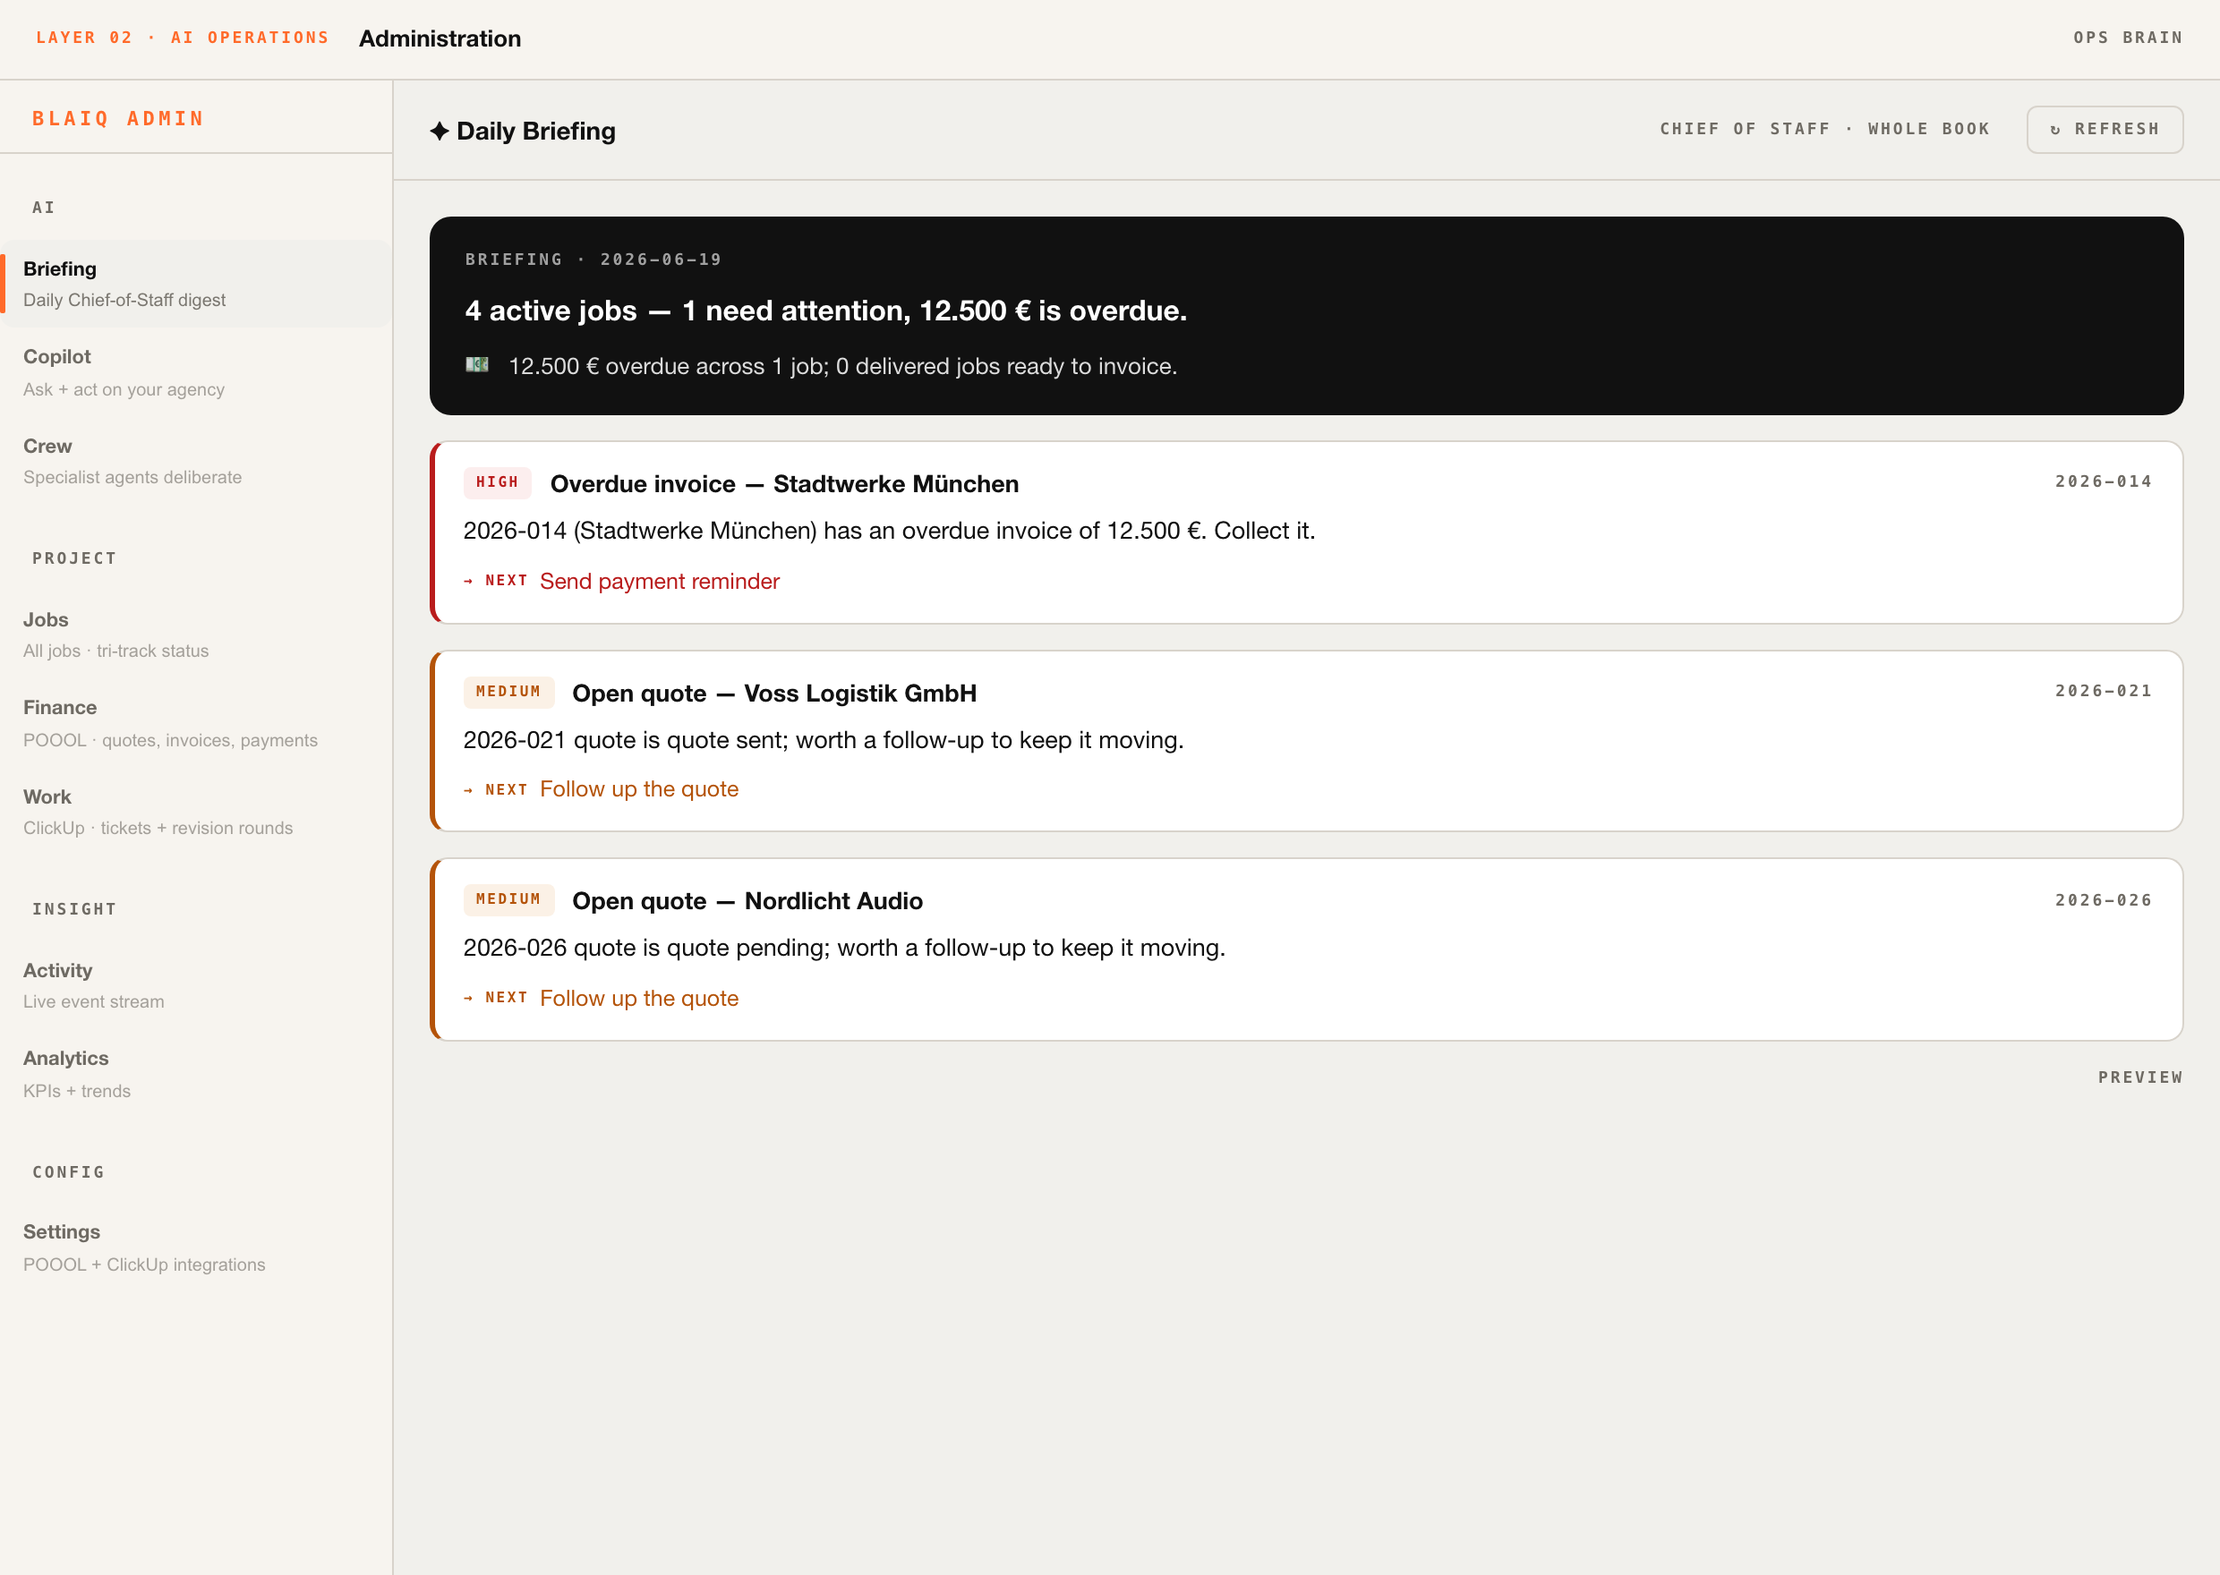
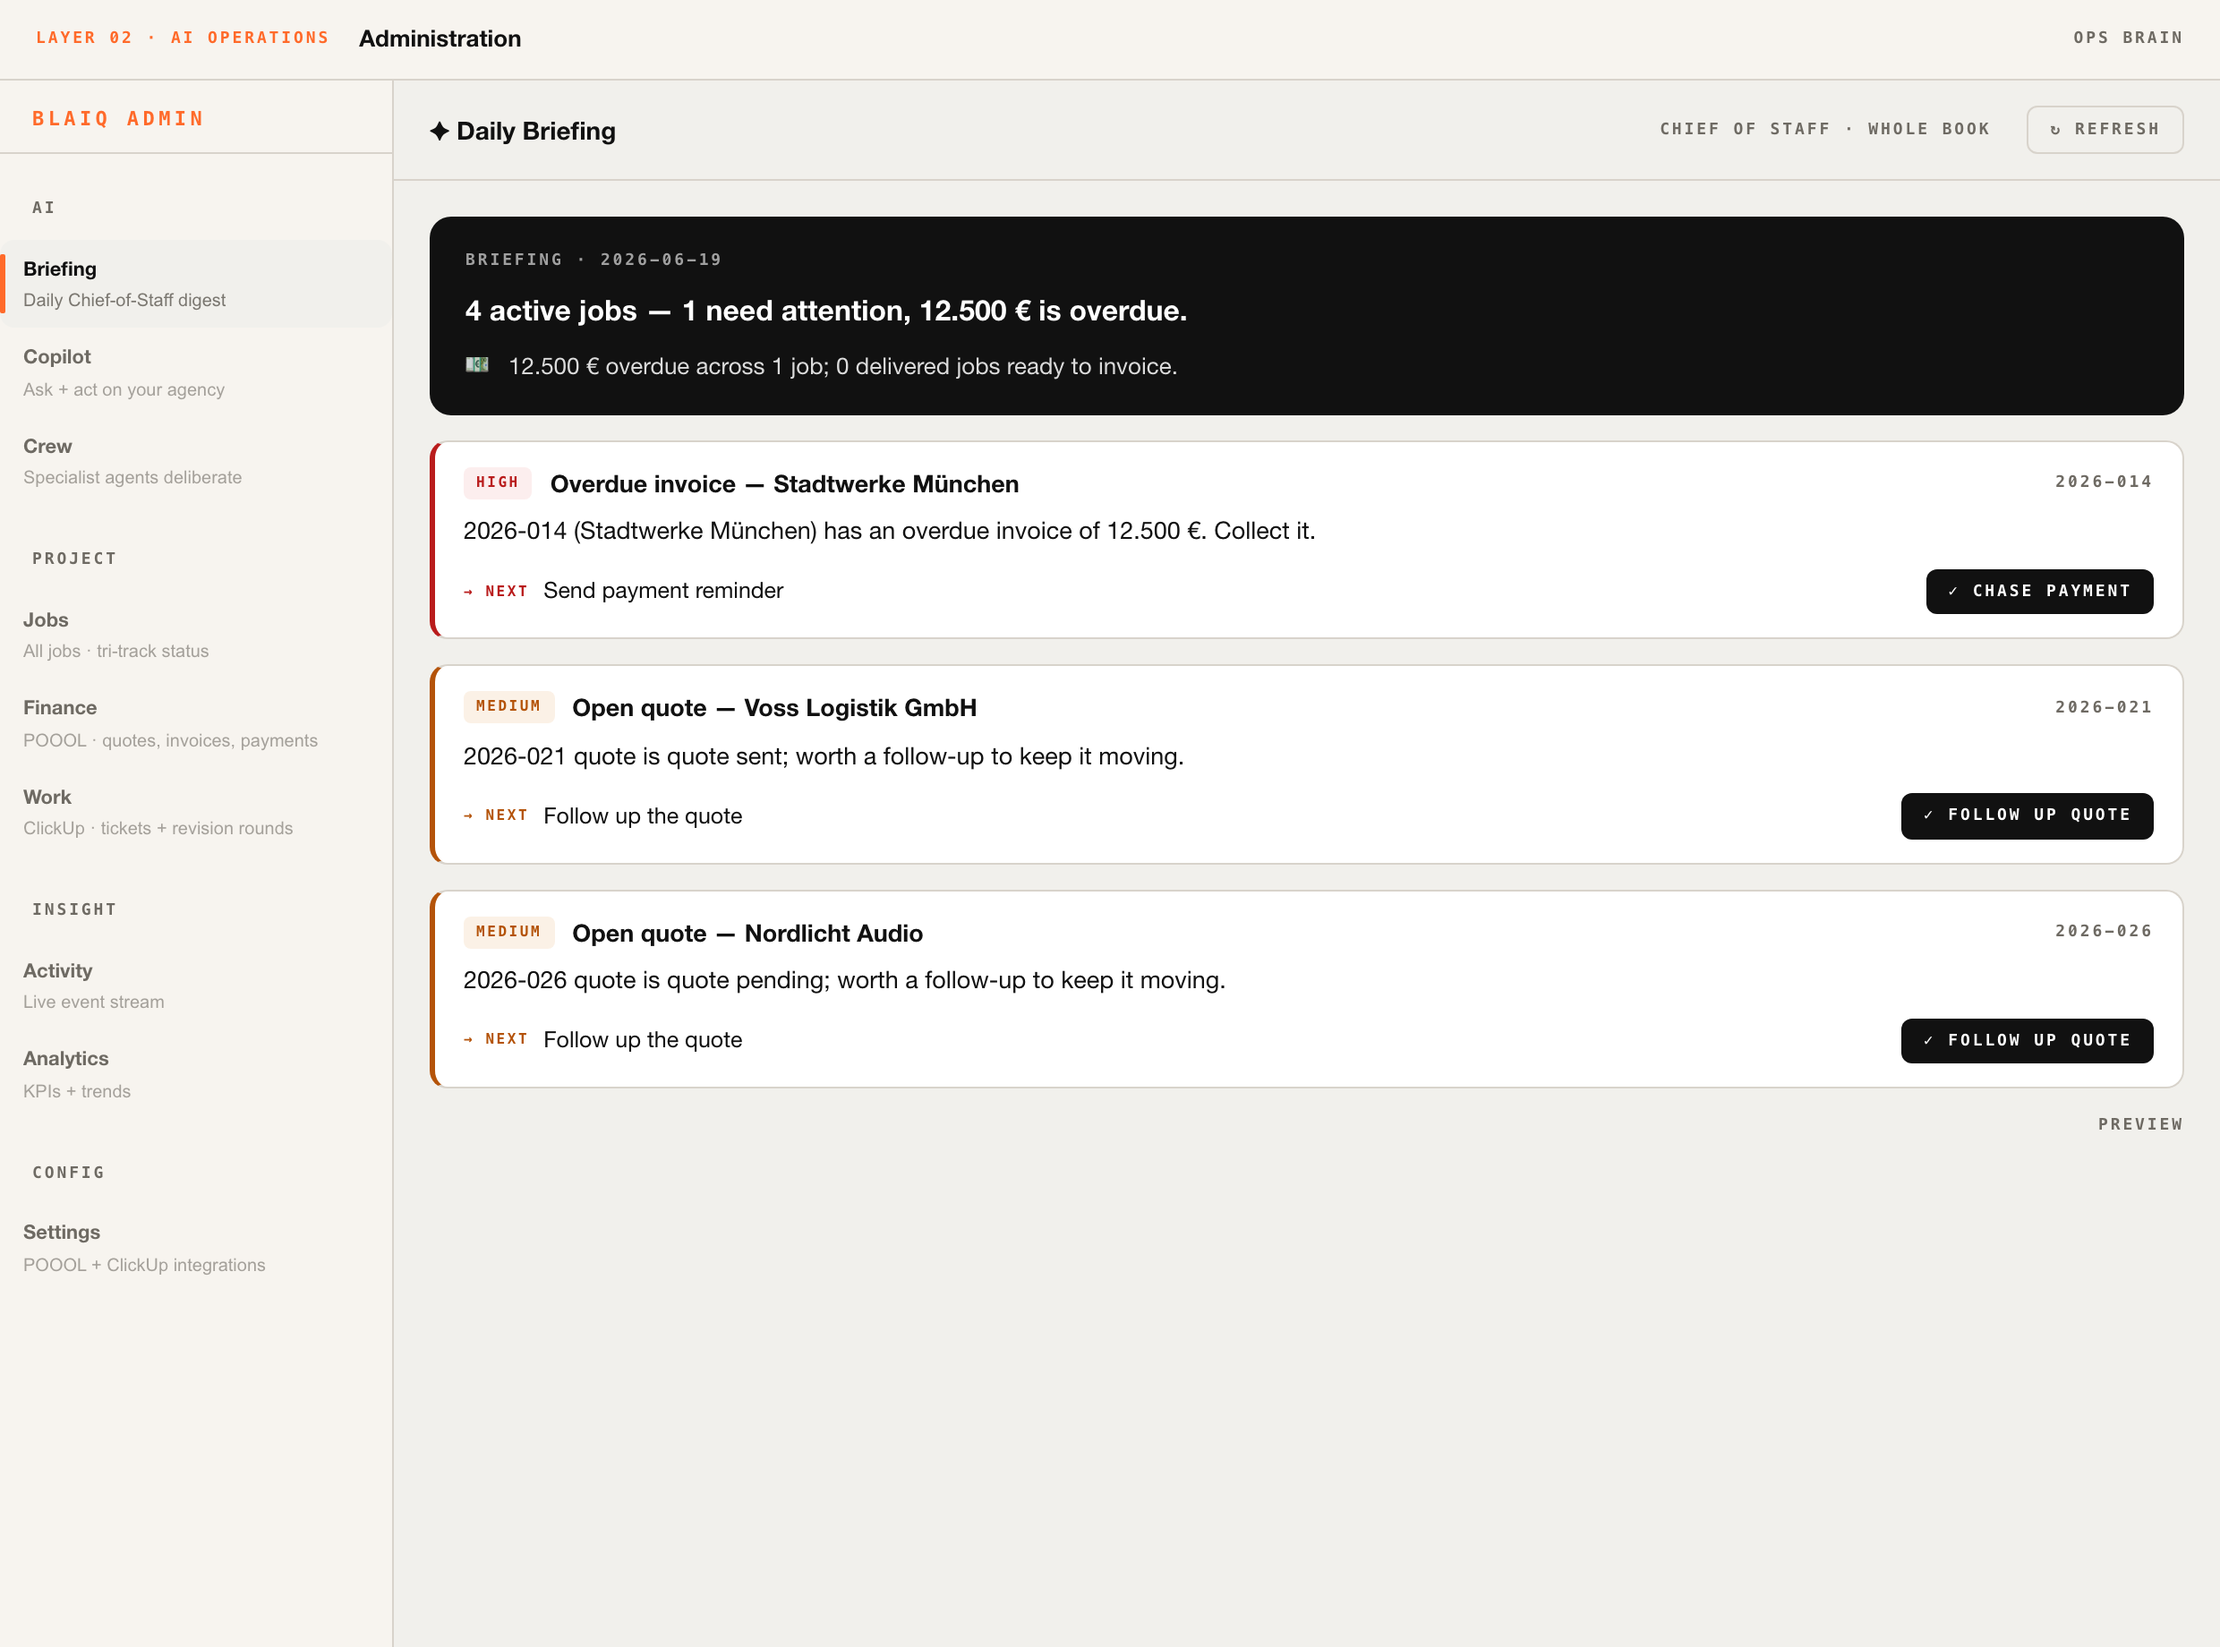
feat(admin): actionable Briefing — one-click approve from the standup
Closes the loop on AA4: each briefing insight whose job maps to a rule-based
Supervisor action now carries a runnable job_id + act_kind, so the PM can fire
it straight from the standup (chase payment, invoice, follow up quote) without
detouring to another tab. The LLM picks the narrative; the rule engine supplies
the safe, executable action — matched by job_number server-side.

Frontend: BriefingBoard renders a one-click action button per runnable insight
with running/done states (executeNextAction).

Verified live on prod: 2 of 4 insights one-click runnable (both overdue jobs
→ chase_payment); info-only insights correctly have no button.

diff --git a/apps/web/src/auth/admin/BriefingBoard.tsx b/apps/web/src/auth/admin/BriefingBoard.tsx
@@ -7,7 +7,7 @@
 'use client';
 
 import React, { useEffect, useState } from 'react';
-import { getBriefing, type Briefing } from './api';
+import { getBriefing, executeNextAction, type Briefing } from './api';
 import { PAL, monoSmall, sansBold, sans } from './theme';
 
 interface Sev { bg: string; fg: string; label: string }
@@ -22,10 +22,13 @@ export default function BriefingBoard(): JSX.Element {
   const [data, setData] = useState<Briefing | null>(null);
   const [busy, setBusy] = useState(false);
   const [error, setError] = useState<string | null>(null);
+  // per-insight action lifecycle, keyed by index
+  const [acted, setActed] = useState<Record<number, 'running' | 'done'>>({});
 
   const load = async (): Promise<void> => {
     setBusy(true);
     setError(null);
+    setActed({});
     try {
       setData(await getBriefing());
     } catch (e) {
@@ -36,6 +39,17 @@ export default function BriefingBoard(): JSX.Element {
   };
 
   useEffect(() => { void load(); }, []);
+
+  const runAction = async (idx: number, jobId: string, kind: string): Promise<void> => {
+    setActed(s => ({ ...s, [idx]: 'running' }));
+    try {
+      await executeNextAction(jobId, kind);
+      setActed(s => ({ ...s, [idx]: 'done' }));
+    } catch (e) {
+      setError((e as Error).message);
+      setActed(s => { const n = { ...s }; delete n[idx]; return n; });
+    }
+  };
 
   return (
     <div style={{ display: 'flex', flexDirection: 'column', height: '100%', minHeight: 0 }}>
@@ -87,7 +101,26 @@ export default function BriefingBoard(): JSX.Element {
                     {ins.job_number ? <span style={{ ...monoSmall, color: PAL.muted, marginLeft: 'auto' }}>{ins.job_number}</span> : null}
                   </div>
                   <div style={{ ...sans, fontSize: 13.5, color: PAL.ink, lineHeight: 1.6 }}>{ins.detail}</div>
-                  {ins.action ? (
+                  {ins.act_kind && ins.job_id ? (
+                    acted[i] === 'done' ? (
+                      <div style={{ ...monoSmall, color: '#0F6E56', background: '#E1F5EE', display: 'inline-block', padding: '5px 10px', borderRadius: 6, fontSize: 9, marginTop: 10 }}>
+                        ✓ DONE — {ins.act_label ?? ins.act_kind}
+                      </div>
+                    ) : (
+                      <div style={{ display: 'flex', alignItems: 'center', gap: 8, marginTop: 10 }}>
+                        <span style={{ ...monoSmall, fontSize: 8, color: sev.fg }}>→ NEXT</span>
+                        <span style={{ ...sans, fontSize: 12.5, color: PAL.ink, flex: 1 }}>{ins.action ?? ins.act_label}</span>
+                        <button
+                          type="button"
+                          disabled={acted[i] === 'running'}
+                          onClick={() => { void runAction(i, ins.job_id!, ins.act_kind!); }}
+                          style={{ border: 'none', background: PAL.ink, color: PAL.white, cursor: acted[i] === 'running' ? 'wait' : 'pointer', ...monoSmall, fontSize: 9, padding: '6px 12px', borderRadius: 6 }}
+                        >
+                          {acted[i] === 'running' ? 'RUNNING…' : `✓ ${(ins.act_label ?? 'DO IT').toUpperCase()}`}
+                        </button>
+                      </div>
+                    )
+                  ) : ins.action ? (
                     <div style={{ ...sans, fontSize: 12.5, color: sev.fg, marginTop: 8, display: 'flex', alignItems: 'center', gap: 6 }}>
                       <span style={{ ...monoSmall, fontSize: 8 }}>→ NEXT</span>
                       <span>{ins.action}</span>

diff --git a/apps/web/src/auth/admin/api.ts b/apps/web/src/auth/admin/api.ts
@@ -736,6 +736,10 @@ export interface BriefingInsight {
   detail: string;
   job_number: string | null;
   action: string | null;
+  // Set when the insight's job maps to a runnable Supervisor action.
+  job_id: string | null;
+  act_kind: string | null;
+  act_label: string | null;
 }
 
 export interface Briefing {
@@ -756,16 +760,16 @@ export async function getBriefing(): Promise<Briefing> {
     const overdueTotal = overdue.reduce((s, j) => s + (j.invoice_amount ?? j.quote_amount ?? 0), 0);
     const insights: BriefingInsight[] = [];
     for (const j of overdue) {
-      insights.push({ severity: 'high', title: `Overdue invoice — ${j.client}`, detail: `${j.job_number} (${j.client}) has an overdue invoice of ${fmtEurShort(j.invoice_amount ?? j.quote_amount)}. Collect it.`, job_number: j.job_number, action: 'Send payment reminder' });
+      insights.push({ severity: 'high', title: `Overdue invoice — ${j.client}`, detail: `${j.job_number} (${j.client}) has an overdue invoice of ${fmtEurShort(j.invoice_amount ?? j.quote_amount)}. Collect it.`, job_number: j.job_number, action: 'Send payment reminder', job_id: j.id, act_kind: 'chase_payment', act_label: 'Chase payment' });
     }
     for (const j of deliveredUninvoiced) {
-      insights.push({ severity: 'high', title: `Delivered, not invoiced — ${j.client}`, detail: `${j.job_number} is delivered but still ${j.poool_status.replace(/_/g, ' ')} — ${fmtEurShort(j.quote_amount)} uncollected.`, job_number: j.job_number, action: 'Raise the invoice' });
+      insights.push({ severity: 'high', title: `Delivered, not invoiced — ${j.client}`, detail: `${j.job_number} is delivered but still ${j.poool_status.replace(/_/g, ' ')} — ${fmtEurShort(j.quote_amount)} uncollected.`, job_number: j.job_number, action: 'Raise the invoice', job_id: j.id, act_kind: 'invoice', act_label: 'Invoice client' });
     }
     for (const j of openQuotes.slice(0, 2)) {
-      insights.push({ severity: 'medium', title: `Open quote — ${j.client}`, detail: `${j.job_number} quote is ${j.poool_status.replace(/_/g, ' ')}; worth a follow-up to keep it moving.`, job_number: j.job_number, action: 'Follow up the quote' });
+      insights.push({ severity: 'medium', title: `Open quote — ${j.client}`, detail: `${j.job_number} quote is ${j.poool_status.replace(/_/g, ' ')}; worth a follow-up to keep it moving.`, job_number: j.job_number, action: 'Follow up the quote', job_id: j.id, act_kind: 'follow_up_quote', act_label: 'Follow up quote' });
     }
     if (insights.length === 0) {
-      insights.push({ severity: 'low', title: 'All clear', detail: 'No overdue invoices and nothing waiting to be billed. The book is healthy.', job_number: null, action: null });
+      insights.push({ severity: 'low', title: 'All clear', detail: 'No overdue invoices and nothing waiting to be billed. The book is healthy.', job_number: null, action: null, job_id: null, act_kind: null, act_label: null });
     }
     return {
       headline: overdue.length

diff --git a/apps/ops-brain/src/aiteam/api/routes/copilot.py b/apps/ops-brain/src/aiteam/api/routes/copilot.py
@@ -864,6 +864,11 @@ class BriefingInsight(BaseModel):
     detail: str = ""
     job_number: str | None = None
     action: str | None = None
+    # When the insight's job has a matching rule-based Supervisor action, these
+    # let the standup run it in one click (FE → /next-actions/execute).
+    job_id: str | None = None
+    act_kind: str | None = None
+    act_label: str | None = None
 
 
 class Briefing(BaseModel):
@@ -908,19 +913,29 @@ async def briefing(
         raise HTTPException(status_code=503, detail=result.get("error") or "briefing unavailable")
 
     model_used = result.get("model") or copilot_model()
+    # Rule-based Supervisor actions, keyed by job_number, so we can make each
+    # insight one-click runnable (the LLM picks the narrative; the rule engine
+    # supplies the safe, executable action).
+    action_rows = await _load_action_rows(db, tenant_id)
+    action_by_job = {a.job_number: a for a in _compute_actions(action_rows, today)}
     try:
         parsed = _parse_briefing_json(result.get("text") or "")
-        insights = [
-            BriefingInsight(
+        insights = []
+        for i in (parsed.get("insights") or []):
+            if not isinstance(i, dict):
+                continue
+            jn = str(i["job_number"]).strip() if i.get("job_number") else None
+            act = action_by_job.get(jn) if jn else None
+            insights.append(BriefingInsight(
                 severity=str(i.get("severity") or "low").lower(),
                 title=str(i.get("title") or "").strip() or "Insight",
                 detail=str(i.get("detail") or "").strip(),
-                job_number=(str(i["job_number"]).strip() if i.get("job_number") else None),
+                job_number=jn,
                 action=(str(i["action"]).strip() if i.get("action") else None),
-            )
-            for i in (parsed.get("insights") or [])
-            if isinstance(i, dict)
-        ]
+                job_id=act.job_id if act else None,
+                act_kind=act.kind if act else None,
+                act_label=act.label if act else None,
+            ))
         data = Briefing(
             headline=str(parsed.get("headline") or "").strip() or "Agency briefing",
             cash_watch=str(parsed.get("cash_watch") or "").strip(),

diff --git a/BLAIQ_PLATFORM_PLAN.md b/BLAIQ_PLATFORM_PLAN.md
@@ -84,7 +84,7 @@ Every arrow above is a step BLAIQ automates. The two pillars share one tenant, o
 
 ![Run the Agency — batch-approve the Supervisor queue](docs/progress/run-agency.png)
 
-**AA4 — AI Daily Briefing (Chief of Staff)** — a proactive one-pass digest over the *whole* job book: headline, cash-watch line, and 3–5 severity-ranked insights, each with a job ref and the single next step. The agency's morning standup, and the default landing view. Verified live on prod (`claude-sonnet-4.6`): it flagged €20,900 of cash exposure across two overdue jobs as the day's top priority:
+**AA4 — AI Daily Briefing (Chief of Staff)** — a proactive one-pass digest over the *whole* job book: headline, cash-watch line, and 3–5 severity-ranked insights. **Each insight whose job maps to a rule-based Supervisor action is one-click runnable right from the standup** (the LLM narrates; the rule engine supplies the safe, executable action). The agency's morning standup, and the default landing view. Verified live on prod (`claude-sonnet-4.6`): flagged €20,900 of cash exposure across two overdue jobs, both with a one-click "Chase payment":
 
 ![AI Daily Briefing — Chief-of-Staff digest over the book](docs/progress/briefing.png)
 
@@ -117,7 +117,7 @@ Every arrow above is a step BLAIQ automates. The two pillars share one tenant, o
 The AI layer over Administration (see `TRACK_AA_AGENTIC_ADMIN.md`). Shipped + deployed:
 - **AA1 Admin Copilot** — grounded chat over live jobs (`POST /api/copilot`, OpenRouter httpx client). **🟢 Live on prod** with `claude-sonnet-4.6`.
 - **AA2 Agentic actions** — the Copilot proposes a tool-call (mark delivered, push POOOL, set finance status, chase payment, …) from natural language; PM approves before it runs (HITL). **🟢 Live on prod.**
-- **AA4 AI Daily Briefing** — `GET /api/copilot/briefing`: a Chief-of-Staff pass over the whole job book → headline + cash-watch + severity-ranked insights with job refs and next steps. The default admin landing view. **🟢 Live on prod, verified e2e.**
+- **AA4 AI Daily Briefing** — `GET /api/copilot/briefing`: a Chief-of-Staff pass over the whole job book → headline + cash-watch + severity-ranked insights with job refs and next steps. Insights that map to a Supervisor action are **one-click runnable from the standup**. The default admin landing view. **🟢 Live on prod, verified e2e.**
 - **AA5 AI Crew** — `POST /api/copilot/crew`: three specialist agents (Finance, Delivery, Account) deliberate over one job *in parallel*, each proposing an action through the same HITL approval + job-action endpoints. Auto-targets the most at-risk job, or review any job by number. **🟢 Live on prod, verified e2e.**
 - **AA5 Crew Sweep** — `POST /api/copilot/crew/sweep`: sends the full crew across the top-N at-risk jobs in one pass (jobs reviewed concurrently). The agency-wide standup. **🟢 Live on prod, verified e2e (3/4 jobs).**
 - **AA Supervisor** — rule-based next-actions queue (overdue→chase, delivered→invoice, aging quote→follow-up), one-click HITL `DO IT`. Fully working without an LLM. Verified on prod.
